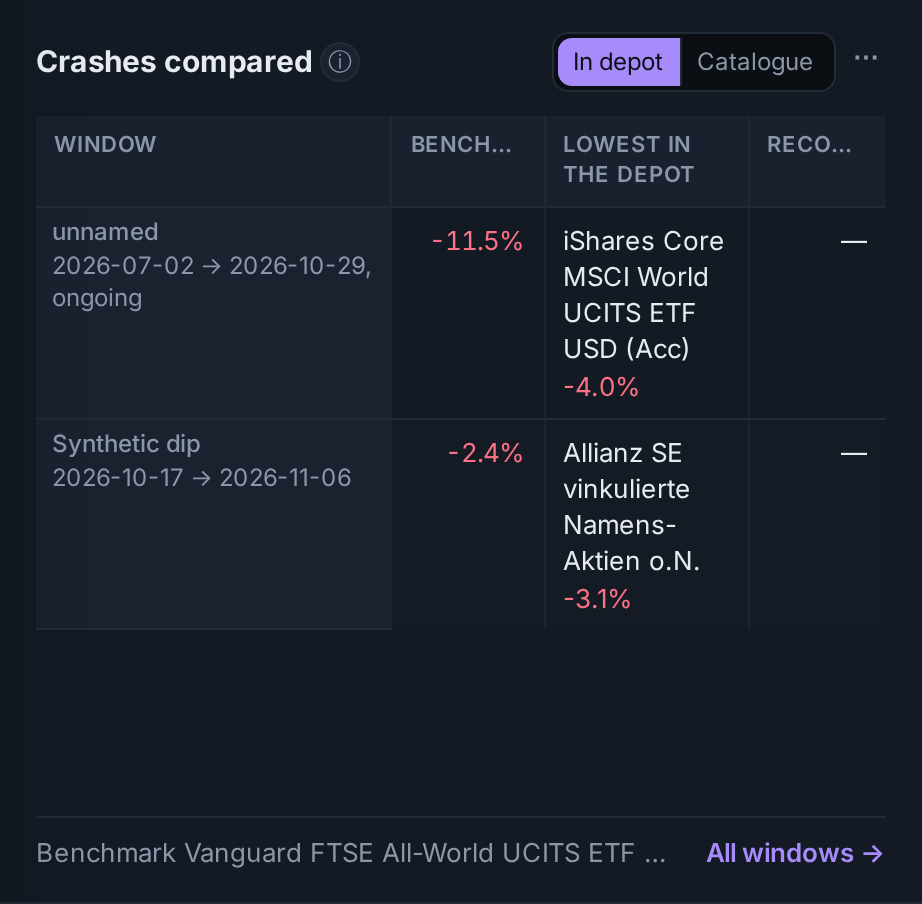
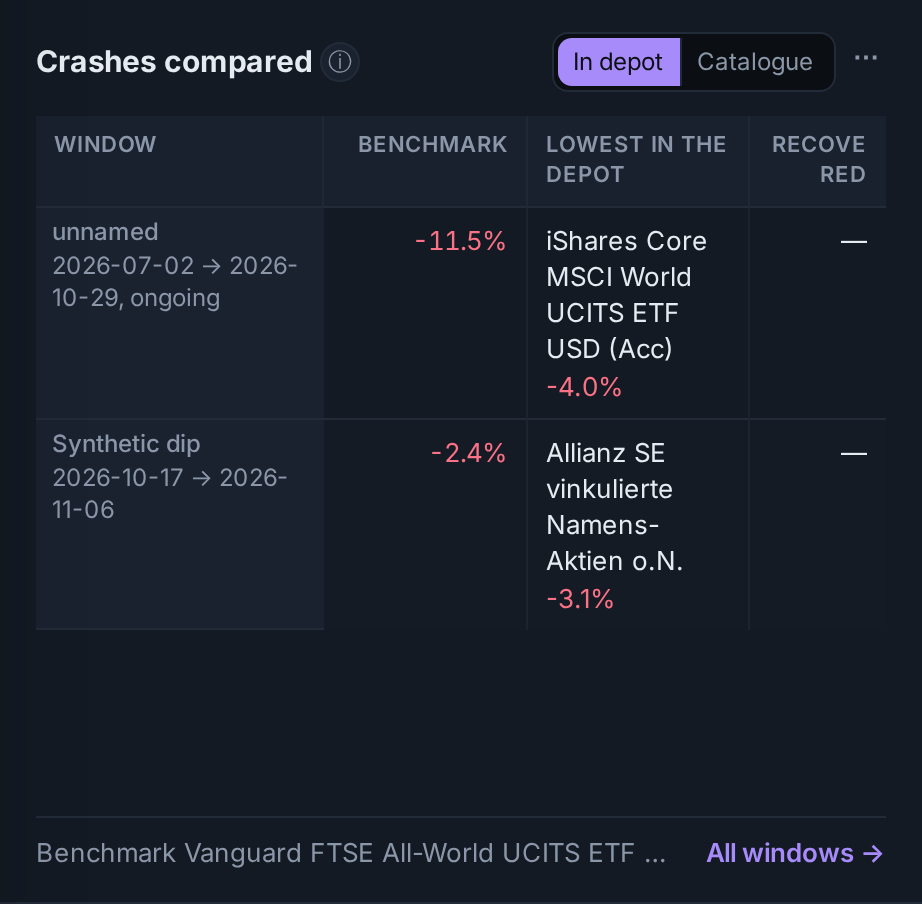
fix(dashboards): „Crashes im Vergleich“ L keeps its column heads whole, and the anatomy walk names a cut table head (S32 closing act)
The coverage pass found it (S3): over „Crashes im Vergleich“ L the heads
were cut with an ellipsis („BENCH…“, „RECO…“); board 09 draws them
whole. The heads now wrap between their words, and the window's column
gives the benchmark's room (34 % and 24 % instead of 42 % and 18 %), so
„Benchmark“ stands whole in Inter and DejaVu Sans; the window's name and
dates wrap.

The anatomy walk names a table head cell whose words are wider than the
cell, ellipsis or not; seen red on „Benchmark“ at 1200 px in both fonts
first, with an attack case (a head cut with an ellipsis) seen caught.
The gallery's crashes-l pictures are regenerated.

Walks: widget_anatomy, dashboard_widths, holdings_starter,
allocation_snapshots_starters.

diff --git a/test/browser/widget_anatomy.js b/test/browser/widget_anatomy.js
@@ -220,6 +220,17 @@ function measure(page) {
           }
         }
 
+        // A table's head whole (the S32 closing act's coverage pass:
+        // „BENCH…“ and „RECO…“ over „Crashes im Vergleich“ L; board 09
+        // draws them whole): a head cell's words wider than the cell are
+        // named, whether the cell cuts them with an ellipsis or not.
+        const headCut = [];
+        for (const th of w.querySelectorAll("thead th")) {
+          if (shown(th) && th.textContent.trim() && th.scrollWidth > th.clientWidth + 1) {
+            headCut.push(th.textContent.replace(/\s+/g, " ").trim().slice(0, 30));
+          }
+        }
+
         // The footer whole or wrapped, never cut, in the compact forms
         // (the S32 closing act: „Ans…“ and „Nicht i…“ at 393 px).
         const footCut = [];
@@ -282,6 +293,7 @@ function measure(page) {
           offSizes,
           footCut,
           smallText,
+          headCut,
           border: ws.borderTopWidth,
           radius: ws.borderTopLeftRadius,
           shadow: ws.boxShadow,
@@ -313,6 +325,7 @@ function check(tag, viewport, m, errors) {
     for (const c of w.cards) errors.push(tag + ": " + w.name + " carries a card: " + c);
     for (const s of w.offSizes) errors.push(tag + ": " + w.name + " sets a figure off the anatomy's sizes: " + s);
     for (const f of w.footCut) errors.push(tag + ": " + w.name + "'s footer is cut: " + f);
+    for (const h of w.headCut) errors.push(tag + ": " + w.name + " cuts a table head: " + h);
     for (const t of w.smallText) errors.push(tag + ": " + w.name + " draws chart text under 12 px: " + t);
     if (w.border !== "0px") errors.push(tag + ": " + w.name + " draws a card border of " + w.border);
     if (w.radius !== "0px") errors.push(tag + ": " + w.name + " rounds its own corner, " + w.radius);
@@ -386,6 +399,7 @@ function breakEach(page, viewport) {
     table.style.tableLayout = "fixed";
     table.style.width = "60px";
     table.innerHTML =
+      "<thead><tr><th style='width: 40px; overflow: hidden; white-space: nowrap; text-overflow: ellipsis'>Benchmark und noch mehr</th></tr></thead>" +
       "<tbody><tr><td style='width: 40px; overflow: hidden; white-space: nowrap'><span class='num'>Zelle −98,76 % · 1.234.567.890.123.456.789,01 EUR · 9.876.543.210,98 EUR</span></td></tr></tbody>";
     second.appendChild(table);
     // A card inside the widget, its figure off the anatomy's sizes.

diff --git a/priv/static/app.css b/priv/static/app.css
@@ -17870,21 +17870,27 @@ a.widget-row:hover .widget-row__label {
   table-layout: fixed;
 }
 
+/* The window's column gives way to the benchmark's, whose head
+   „Benchmark“ stands whole (the S32 closing act's coverage pass; board
+   09); the window's name and dates wrap. */
 .dashboard-widget .widget-crash-table th:nth-child(1) {
-  width: 42%;
+  width: 34%;
 }
 
 .dashboard-widget .widget-crash-table th:nth-child(2) {
-  width: 18%;
+  width: 24%;
 }
 
 .dashboard-widget .widget-crash-table th:nth-child(4) {
   width: 16%;
 }
 
+/* A head is never cut (board 09 draws it whole): it wraps between its
+   words, and only a word wider than its column breaks. */
 .dashboard-widget .widget-crash-table thead th {
-  overflow: hidden;
-  text-overflow: ellipsis;
+  white-space: normal;
+  hyphens: auto;
+  overflow-wrap: anywhere;
 }
 
 /* „Bitcoin-Zyklus“ at XL (board 09 ③): in the wide grid the chart the
